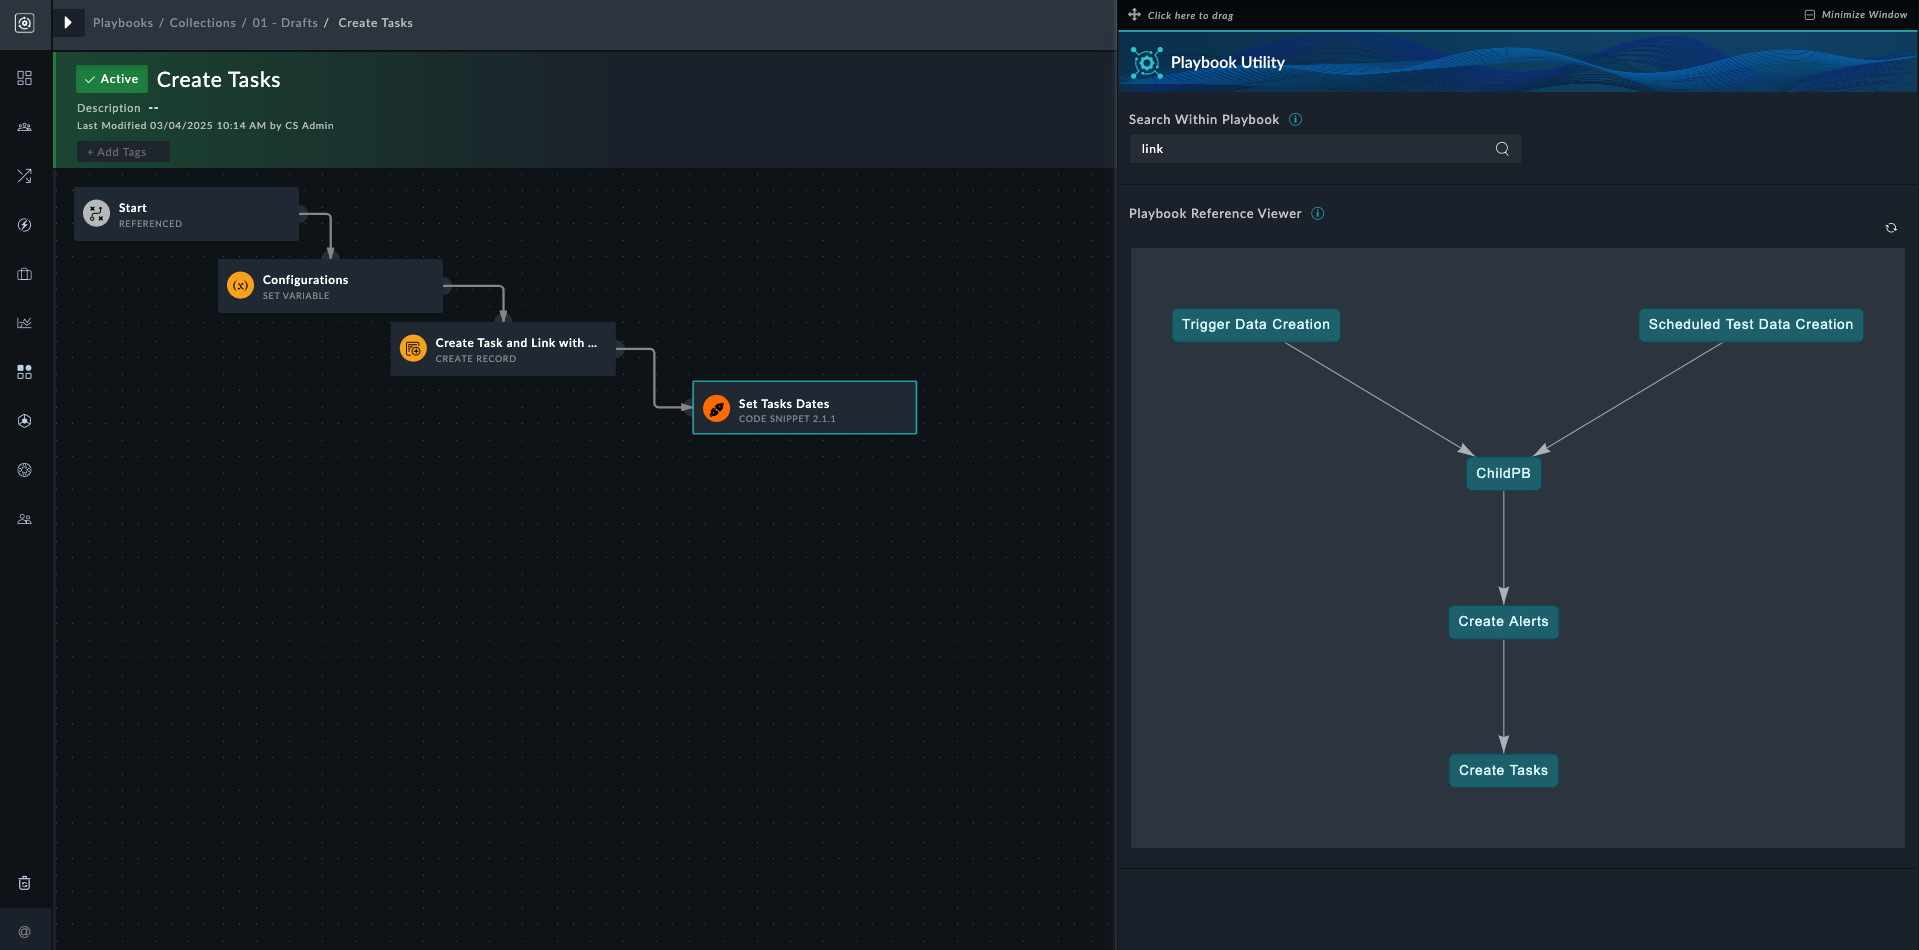
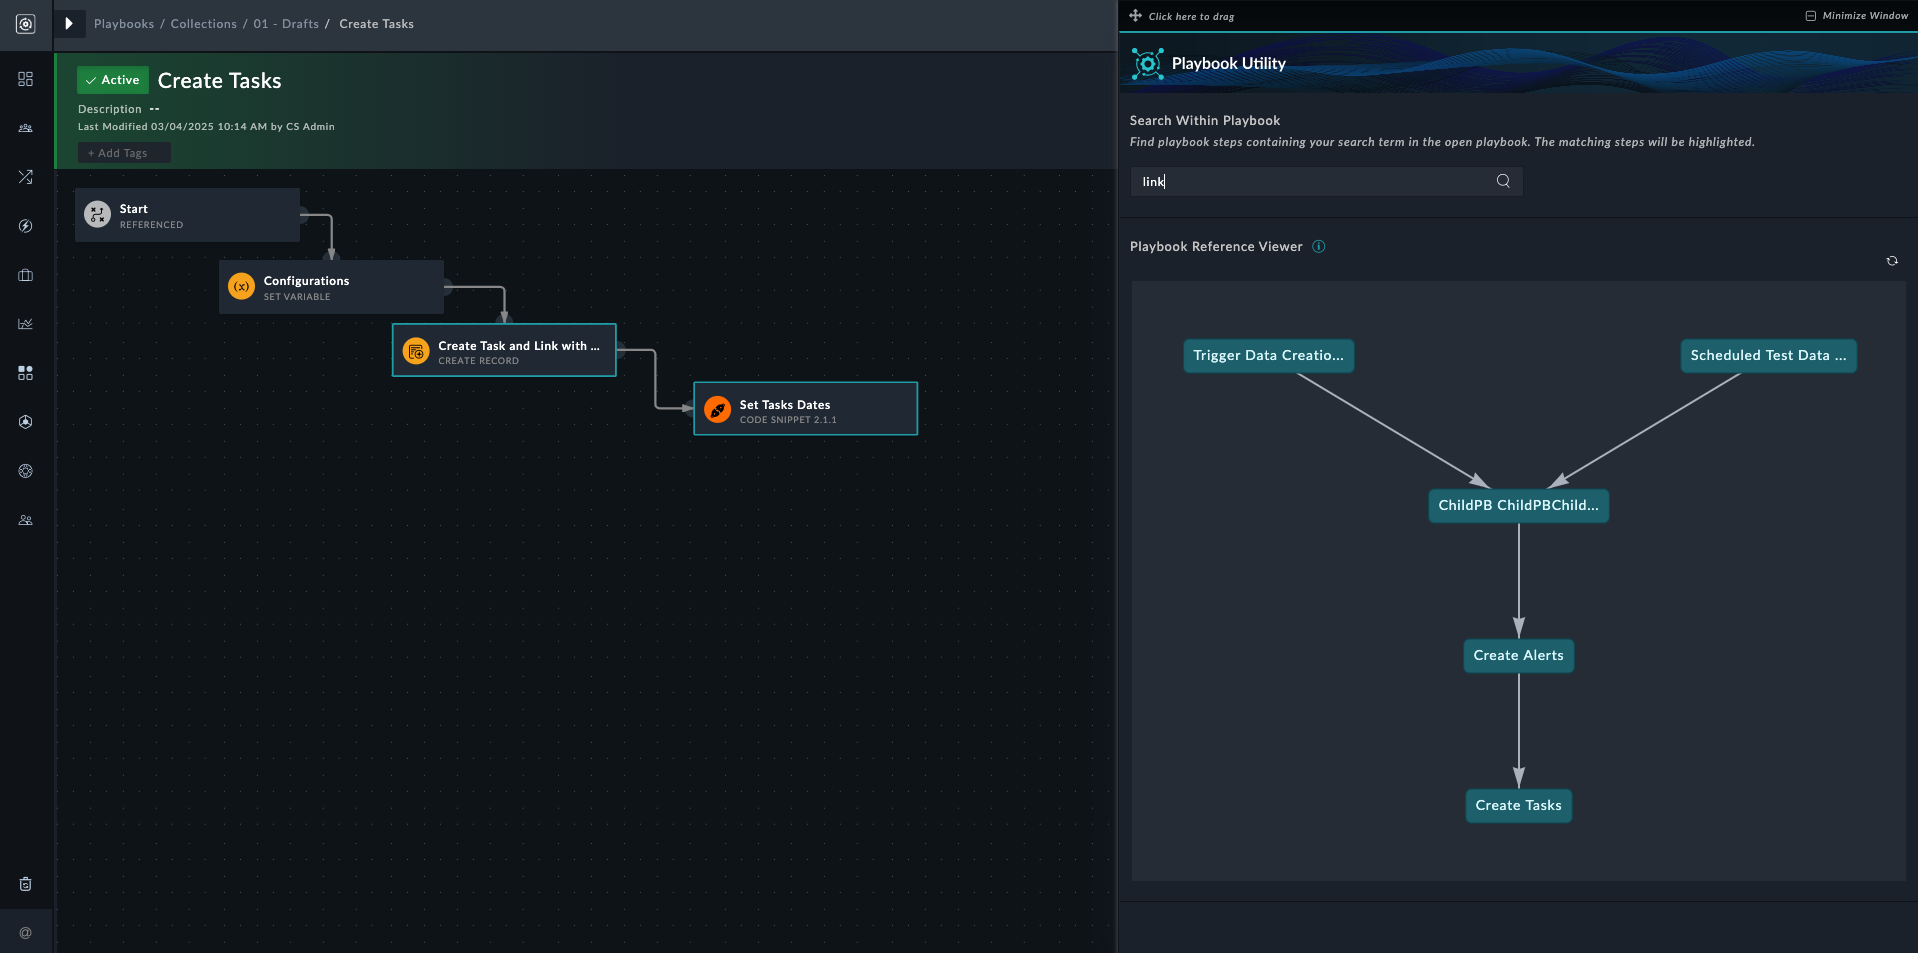
Playbook Utility UX changes, bug fixes

diff --git a/widget/view.controller.js b/widget/view.controller.js
@@ -13,6 +13,7 @@
 
   function playbookUtility100Ctrl($scope, $q, playbookDebuggerService, $timeout, $rootScope, CommonUtils, widgetUtilityService, $state, $window, widgetBasePath) {
     $scope.getPlaybookInterConnection = getPlaybookInterConnection;
+    $scope.searchInStep = searchInStep;
     $scope.playbookInterconnectionID = 'pb-' + CommonUtils.generateUUID();
     $scope.canvasConfig = {
       node_bg_color: '',
@@ -29,6 +30,8 @@
 
     $scope.$on('popupClosed', function() {
       $scope.searchText = '';
+      $scope.playbook_interconnection_network.setData({ nodes: new vis.DataSet([]), edges: new vis.DataSet([]) });
+      $scope.searchInStep();
     });
 
     function _highlightStep(stepElement) {
@@ -54,12 +57,12 @@
       }, 1000);
     }
 
-    $scope.$watch('searchText', function (newVal, old_value) {
+    function searchInStep() {
       let playbookDesigner = document.querySelector('#designer');
       let playbookConfig = {
         playbookDesigner: playbookDesigner,
         playbookDesignerScope: angular.element(playbookDesigner).scope(),
-        searchValue: newVal
+        searchValue: $scope.searchText
       };
       let highlightedStepUUID = [];
       if(playbookConfig.playbookDesignerScope && playbookConfig.playbookDesignerScope.playbook && playbookConfig.playbookDesignerScope.playbook.steps) {
@@ -73,7 +76,7 @@
           if(playbookConfig.searchValue === '')
             continue;
 
-          if(stepArguments.toLowerCase().indexOf(playbookConfig.searchValue.toLowerCase()) >= 0) {
+          if((stepArguments.toLowerCase().indexOf(playbookConfig.searchValue.toLowerCase()) >= 0) || (step.name.toLowerCase().includes(playbookConfig.searchValue.toLowerCase()))) {
             _highlightStep(stepElement);
             highlightedStepUUID.push(step.uuid);
           }
@@ -89,7 +92,12 @@
           _highlightStep(stepElement);
         }
       }
-    });
+      $scope.noResult = highlightedStepUUID.length === 0 && $scope.searchText !== '' ? true : false;
+    }
+
+    function truncateText(text, maxLength) {
+      return text.length > maxLength ? text.substring(0, maxLength) + "..." : text;
+    }
 
     function get_parent_playbooks(uuid, current_depth = 0, until_depth) {
       var defer = $q.defer();
@@ -103,17 +111,20 @@
             parent_collections.push(workflow['collection'].split('/').pop());
             playbookConnectionConfig.nodes.update({
               'id': workflow.uuid,
-              'label': workflow.name,
+              'label': truncateText(workflow.name, 20),
+              'title': workflow.name,
               'shape': 'box',
               'level': -(current_depth + 1),
               'color': $scope.canvasConfig.node_bg_color,
               'margin': { top: 10, bottom: 10, left: 10, right: 10 },
-              'font': { 'color': $scope.canvasConfig.node_text_color }
+              'font': { face: "Lato, sans-serif", 'color': $scope.canvasConfig.node_text_color },
+              'widthConstraint': { 'maximum': 300 }
             });
             playbookConnectionConfig.edges.update({
               'id': _convertID(workflow.uuid, uuid),
               'from': workflow.uuid,
               'to': uuid,
+              'width': 2,
               'color': {
                   'color': $scope.canvasConfig.edge_color, // Green default edge
                   'highlight': $scope.canvasConfig.edge_color, // Purple when selected
@@ -135,12 +146,14 @@
       playbookDebuggerService.getChildPlaybook(uuid).then(function(response) {
           playbookConnectionConfig.nodes.update({
             'id': uuid,
-            'label': response['data']['name'],
+            'label': truncateText(response['data']['name'], 20),
+            'title': response['data']['name'],
             'shape': 'box',
             'level': current_depth,
             'color': $scope.canvasConfig.node_bg_color,
             'margin': { top: 10, bottom: 10, left: 10, right: 10 },
-            'font': { 'color': $scope.canvasConfig.node_text_color }
+            'font': { face: "Lato, sans-serif",  'color': $scope.canvasConfig.node_text_color },
+            'widthConstraint': { 'maximum': 300 }
           });
 
           if (until_depth && until_depth <= current_depth)
@@ -158,16 +171,19 @@
               playbookConnectionConfig.nodes.update({
                 'id': child_playbook_uuid,
                 'label': 'Fetching',
+                'title': 'Fetching',
                 'shape': 'box',
                 'level': current_depth + 1,
                 'color': $scope.canvasConfig.node_bg_color,
                 'margin': { top: 10, bottom: 10, left: 10, right: 10 },
-                'font': { 'color': $scope.canvasConfig.node_text_color }
+                'font': { face: "Lato, sans-serif", 'color': $scope.canvasConfig.node_text_color },
+                'widthConstraint': { 'maximum': 300 }
               });
               playbookConnectionConfig.edges.update({
                 'id': _convertID(uuid, child_playbook_uuid),
                 'from': uuid,
                 'to': child_playbook_uuid,
+                'width': 2,
                 'color': {
                   'color': $scope.canvasConfig.edge_color, // Green default edge
                   'highlight': $scope.canvasConfig.edge_color, // Purple when selected
@@ -217,12 +233,9 @@
         }
       };
       $scope.playbook_interconnection_network = new vis.Network(container, $scope.playbook_interconnection_vis_data, options);
-      setTimeout(() => {
-        $scope.playbook_interconnection_network.fit();
-      }, 500);
       var canvasElement = document.querySelector('.vis-network');
       if($rootScope.theme.id === 'steel') {
-        canvasElement.style.backgroundColor = '#323b47';
+        canvasElement.style.backgroundColor = '#2A323E';
         $scope.canvasConfig.node_bg_color = '#206A75';
         $scope.canvasConfig.node_text_color = '#E0F8FC';
         $scope.canvasConfig.edge_color = '#B3B9C4';
@@ -244,6 +257,11 @@
         var url = $state.href($state.current.name, {id: params.nodes[0]});
         $window.open(url,'_blank');
       });
+      setTimeout(() => {
+        if($scope.playbook_interconnection_vis_data.nodes.length === 1) {
+          $scope.playbook_interconnection_network.fit();
+        }
+      }, 500);
       $scope.playbook_interconnection_network.on("stabilizationIterationsDone", function () {
         $scope.playbook_interconnection_network.fit(); // Auto-adjusts view to avoid overlap
         if($scope.playbook_interconnection_vis_data.nodes._data.length === 1) {
@@ -261,18 +279,20 @@
 
       playbookConnectionConfig.nodes.update({
         'id': $scope.playbook_uuid,
-        'label': designerScope.playbookEntity.playbook.name,
+        'label': truncateText(designerScope.playbookEntity.playbook.name, 20),
+        'title': designerScope.playbookEntity.playbook.name,
         'shape': 'box',
         'level': 0,
         'color': $scope.canvasConfig.node_bg_color,
         'font': { 'color': $scope.canvasConfig.node_text_color },
-        'margin': { top: 10, bottom: 10, left: 10, right: 10 }
+        'margin': { face: "Lato, sans-serif", top: 10, bottom: 10, left: 10, right: 10 },
+        'widthConstraint': { 'maximum': 300 }
       });
 
       $scope.processing = true;
       var promises = [];
-      promises.push(get_parent_playbooks($scope.playbook_uuid, 0, 5));
-      promises.push(get_child_playbooks($scope.playbook_uuid, 0, 5));
+      promises.push(get_parent_playbooks($scope.playbook_uuid, 0, 4));
+      promises.push(get_child_playbooks($scope.playbook_uuid, 0, 4));
       $q.all(promises).then(function() {
         $scope.processing = false;
       })
@@ -288,6 +308,7 @@
         widgetUtilityService.checkTranslationMode(widgetNameVersion).then(function () {
           $scope.viewWidgetVars = {
             // Create your translating static string variables here
+            NO_RESULTS_FOUND: widgetUtilityService.translate('playbookDebugger.NO_RESULTS_FOUND'),
             PLAYBOOK_REFERENCE_VIEWER_TITLE: widgetUtilityService.translate('playbookDebugger.PLAYBOOK_REFERENCE_VIEWER_LABEL'),
             SEARCH: widgetUtilityService.translate('playbookDebugger.SEARCH'),
             SEARCH_WITHIN_PLAYBOOK_TITLE: widgetUtilityService.translate('playbookDebugger.SEARCH_WITHIN_PLAYBOOK'),

diff --git a/widget/view.html b/widget/view.html
@@ -10,18 +10,22 @@
   <div class="playbook-utility-container">
     <div ng-form name="searchInPlaybook" class="form-group padding-left-md padding-top-md">
       <div class="display-flex-space-between">
-        <label class="control-label">{{viewWidgetVars.SEARCH_WITHIN_PLAYBOOK_TITLE}}<span data-uib-tooltip="{{viewWidgetVars.TOOLTIP_SEARCH}}" data-tooltip-placement="bottom" class="margin-left-sm">
-          <i class="icon icon-information font-Size-13"></i>
-        </span></label>
+        <label class="control-label">{{viewWidgetVars.SEARCH_WITHIN_PLAYBOOK_TITLE}}</label>
       </div>
+      <p class="italic muted font-size-12">
+        {{viewWidgetVars.TOOLTIP_SEARCH}}
+      </p>
       <div class="input-group col-md-6 search-style margin-0 padding-0">
-        <input type="text" class="form-control filter-height-style font-style-normal" data-ng-model="searchText" placeholder="{{ viewWidgetVars.SEARCH }}" aria-labelledby="search-btn" name="search-input">
+        <input type="text" class="form-control filter-height-style font-style-normal" data-ng-model="searchText" ng-model-options="{debounce:500}" data-ng-change="searchInStep()" placeholder="{{ viewWidgetVars.SEARCH }}" aria-labelledby="search-btn" name="search-input">
         <span class="input-group-btn">
           <button type="submit" class="btn btn-default filter-height-style" aria-label="Search" id="submit-search-field-playbook-debugger">
             <span class="icon icon-search"></span>
           </button>
         </span>
       </div>
+      <span class="italic muted font-size-12" data-ng-show="noResult">
+        {{viewWidgetVars.NO_RESULTS_FOUND}}
+      </span>
     </div>
     <hr>
     <div ng-form name="playbookInterconnection" class="form-group">

diff --git a/README.md b/README.md
@@ -11,5 +11,5 @@
 
 Helpful tools to debug playbooks
 
-- Search
-- Playbook Interconnection Engine
+- Search Within Playbook: Find playbook steps containing your search term in the open playbook. The matching steps will be highlighted.
+- Playbook Reference Viewer: View the relationships between the current playbook and both its referenced and referring playbooks. Click on a playbook name to navigate to its details.